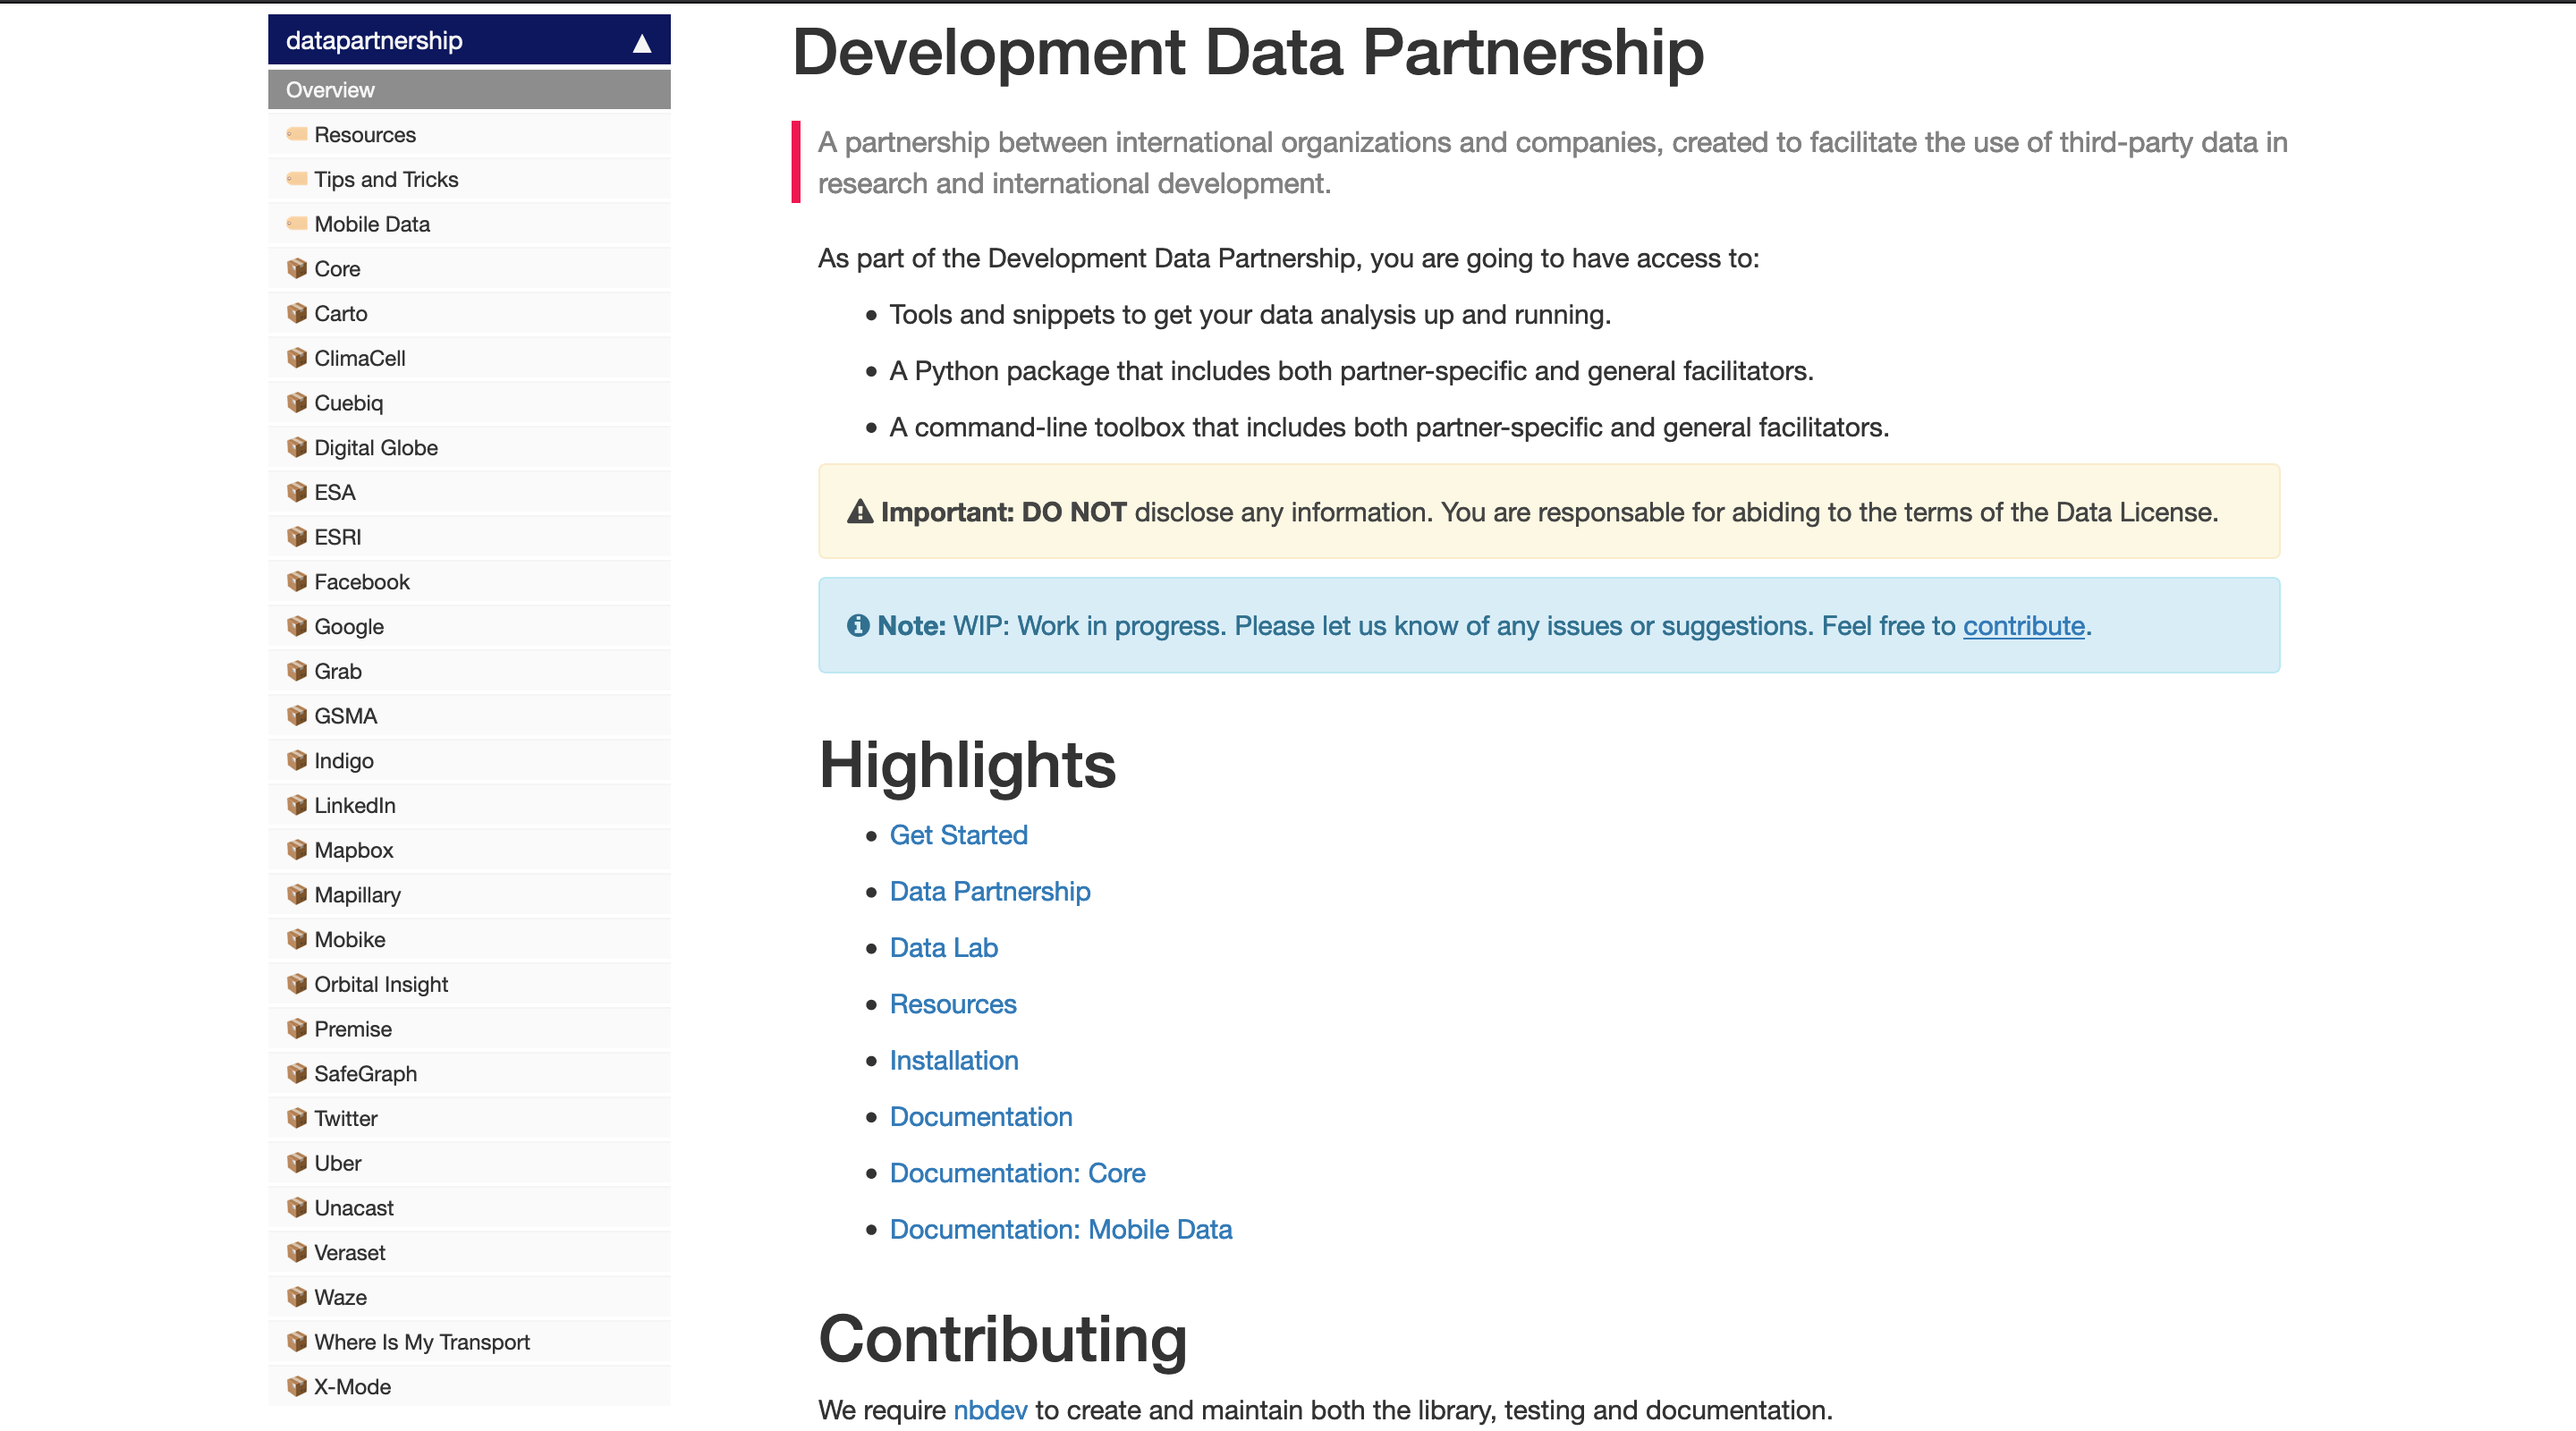
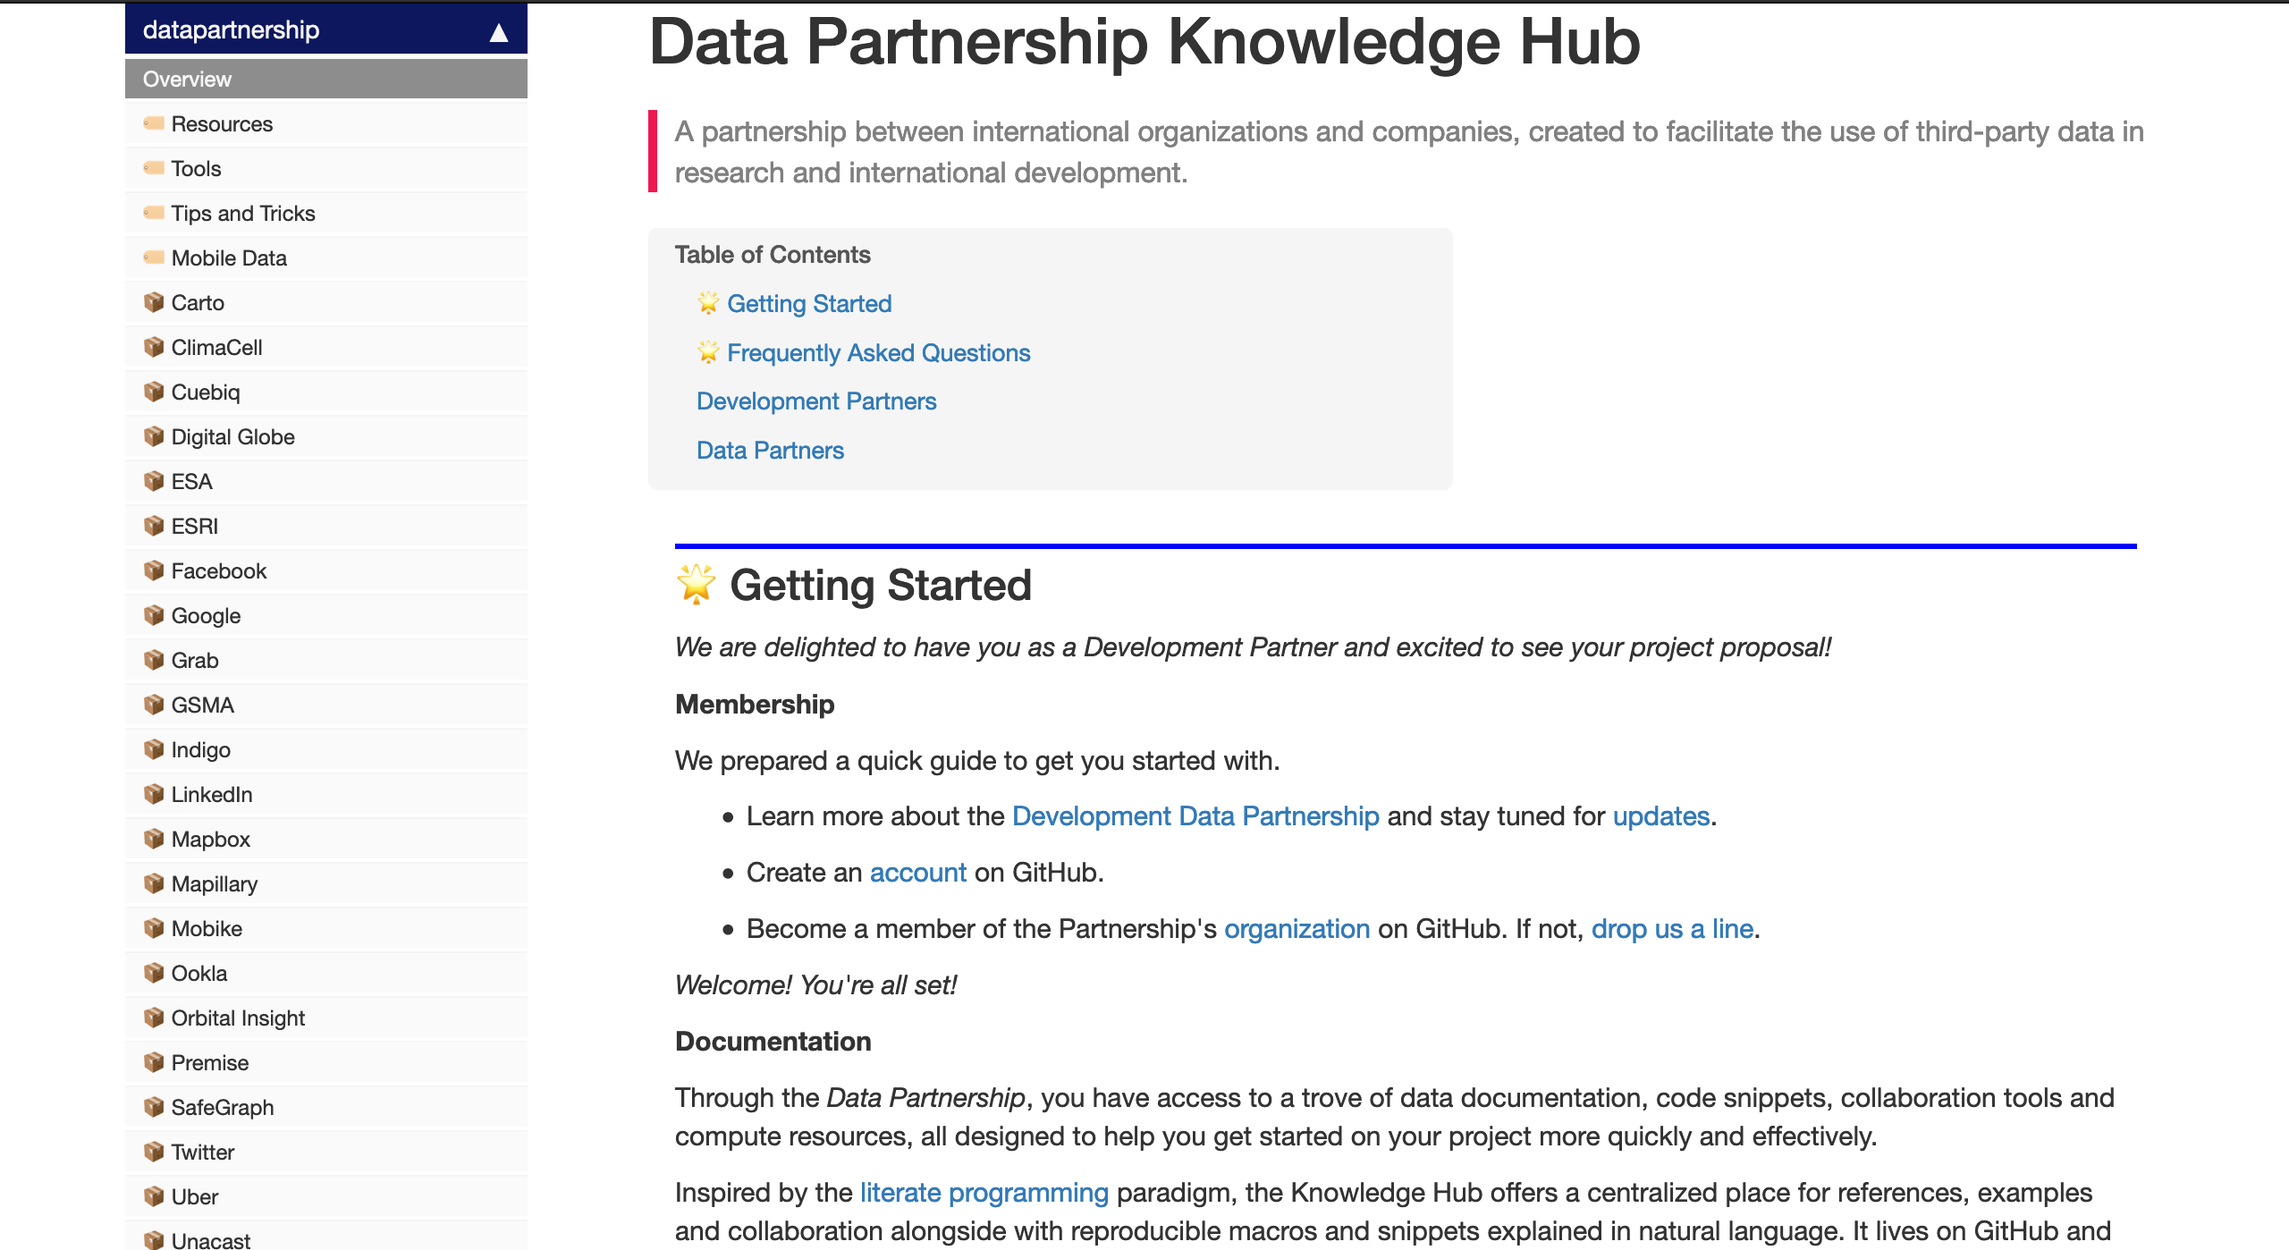
Update Introducing Knowlegde Hub

Changed region(s): [[0.2812, 0.0923, 0.9375, 0.7074], [0.0312, 0.0, 0.7188, 1.0], [0.2812, 0.7382, 0.9375, 1.0]]

diff --git a/content/updates/introducing-the-data-partnership-knowledge-hub.md b/content/updates/introducing-the-data-partnership-knowledge-hub.md
@@ -1,0 +1,82 @@
++++
+date = 2020-07-13T00:00:00Z
+title = "Introducing the Data Partnership Knowledge Hub"
+type = "Article"
++++
+
+After rolling out the [Pilot Phase](/updates/why-datacollaboratives/) in 2018, the *Development Data Partnership* has scaled up fast, with more than 100 projects having been brought to life supported by partnerships with more than 20 companies.
+
+From the very [beginning](/updates/data-day/), the *Partnership* has watched a growing interest and success using third-party data for economic development - especially where data scarcity poses extra challenges. Today, motivated by the [Sustainable Development Goals](https://www.un.org/sustainabledevelopment/sustainable-development-goals/), we are supporting teams working on [confronting COVID-19 second wave](https://blogs.worldbank.org/eastasiapacific/confronting-covid-19-second-waves-how-big-data-good-can-inform-policy-vietnam), [mobility indicators during the COVID-19 pandemic](https://blogs.worldbank.org/sustainablecities/poor-people-respond-differently-stay-home-orders-heres-what-data-says), [locust spread in Africa](https://www.climacell.org/blog/climacell-completes-24-hour-hackathon-to-help-address-the-locust-spread-in-africa-and-beyond/), [estimating access to employment opportunities](/updates/employment-opportunities-in-bangladesh/), healthcare accessibility, road safety, gender inequality, digital divide, food security and many others.
+
+The key to expanding the success is to continue building up from the Partnership's pillars: **legal foundation**, **responsible  use**, **multi-disciplinary teams**, **secure architecture**, **data partnership management** and **data goods**. 
+
+As more data partners and contributors join the initiative and more methodologies, results and derivative works are created, feeding them back to the community - with the curation of the *Partnership* – will create a virtuous circle where common challenges, resources and expertise are shared and improved upon. 
+
+To achieve the goal and to give the community a home, we are introducing the **Development Data Partnership Knowledge Hub**! 
+
+<img src="/updates/data-partnership-knowledge-base/data-partnership-knowledge-base-site.png" style="width:100%;"/><br>
+
+Inspired by the literate programming paradigm, the Knowledge Hub offers a centralized place for references, examples and collaboration alongside with reproducible macros and snippets explained in natural language.
+
+Through the Data Partnership, you have access to a trove of data documentation, code snippets, collaboration tools and compute resources, all designed to help you get started on your project more quickly and effectively.
+
+It lives on GitHub and on the [documentation](http://docs.datapartnership.org).
+
+## Membership
+
+We prepared a quick guide to get you started with.
+
+- Learn more about the [Development Data Partnership](https://datapartnership.org/) and stay tuned for [updates](https://datapartnership.org/updates/).
+- Create an account on GitHub.
+- Become a member of the Partnership's organization on GitHub. If not, drop us a line.
+
+Welcome! You're all set!
+
+## Data Partner Documentation
+
+Each *data partner* has a dedicated page on the documentation. 
+
+<img src="/updates/data-partnership-knowledge-base/data-partnership-knowledge-base-partner.png" style="width:100%;"/><br>
+
+ We are not reinventing the wheel; The documentation offers a centralized place for references and examples as well as details about the datasets, such as how to access the data (**Getting Access**), **Summary** and **Examples**.
+
+In fact, that page has a double life and is a Jupyter notebook! You can either choose to work with it by cloning from the repository or by viewing a rendered page on your browser.
+
+### Getting Access
+
+After submitting your proposal to [Data Partnership](https://datapartnership.org/) and having it approved by the data partner, the section gives you details of how you should expect to get access to the data.
+
+Even before your project take shape, the section helps estimate what kind what resources will be required from your team.
+
+### Summary
+
+The rationale for a data summary is to give a sneak peek into the datasets, even before submitting a project proposal.
+
+For example, when exploring the mobile data opportunities, you will be able to see the number of records by geographic region and day by day, so you can evalulate the quality of the sampling of each Data Partner. Also, you will be able to compare those metrics from different partners, possibly deciding for one or a combination of datasets.
+
+### Examples and Snippets
+
+Taking an inspiration from *Don't repeat yourself (DRY)* principle, examples, snippets and facilitators are at the heart of what the documentation was brought to life.
+
+An example of a facilitator that was created by Data Partership is for handling [Facebook](https://dataforgood.fb.com).
+
+When downloading from Facebook GeoInsights, unfortunately, no API is available. Fortunately, the Data Partnership supports an easy alternative for programmatically download the files via the Facebook class on the *datapartnership* Python package.
+
+After installing the package, you will be able to create a login session and download the files programmatically from your notebook. See more about the Facebook class on the [repository](https://github.com/datapartnership/ddp-docs-facebook).
+
+## Tips and Tricks
+
+As the name suggests, this section is where you can find tips and guides on how to set up common tools in projects, such as AWS, Python and environment variables.
+
+## Collaboration
+
+The Data Partnership is not only about licensing and data, but it is about sharing code, knowledge and building a community. That is why we take advantage of everything GitHub has to offer. 
+
+You are more than welcome to open issues and pull requests and share your own contributions Certainly your team's efforts will be highly appreciated and recognized. 
+
+_Authors:_
+
+* [_Gabriel Stefanini Vicente_](https://g4brielvs.me/), _Data Scientist, Development Data Partnership_
+
+*The Development Data Partnership is a partnership between international organizations and companies, created to facilitate the use of third-party data in research and international development.*
+
